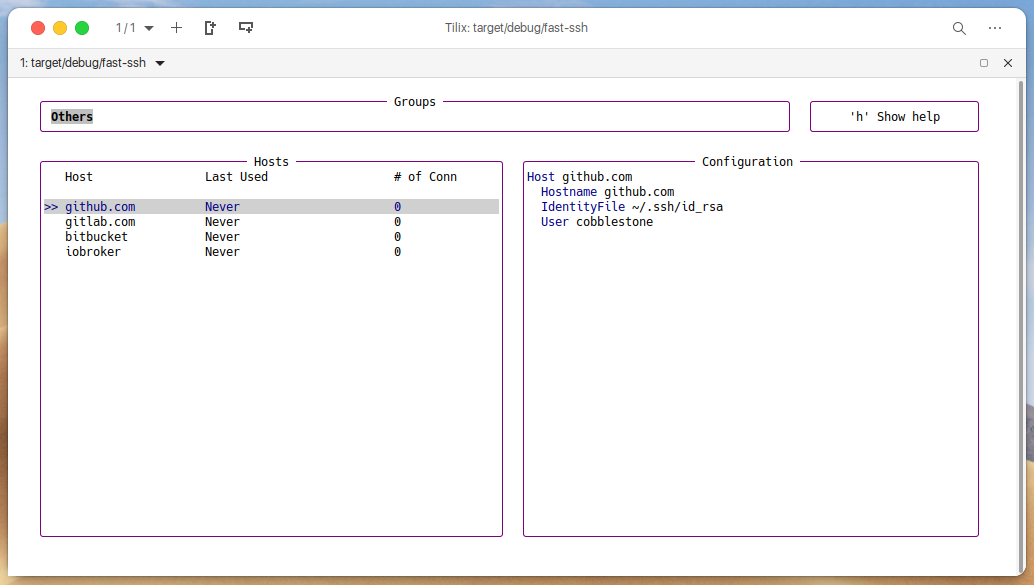
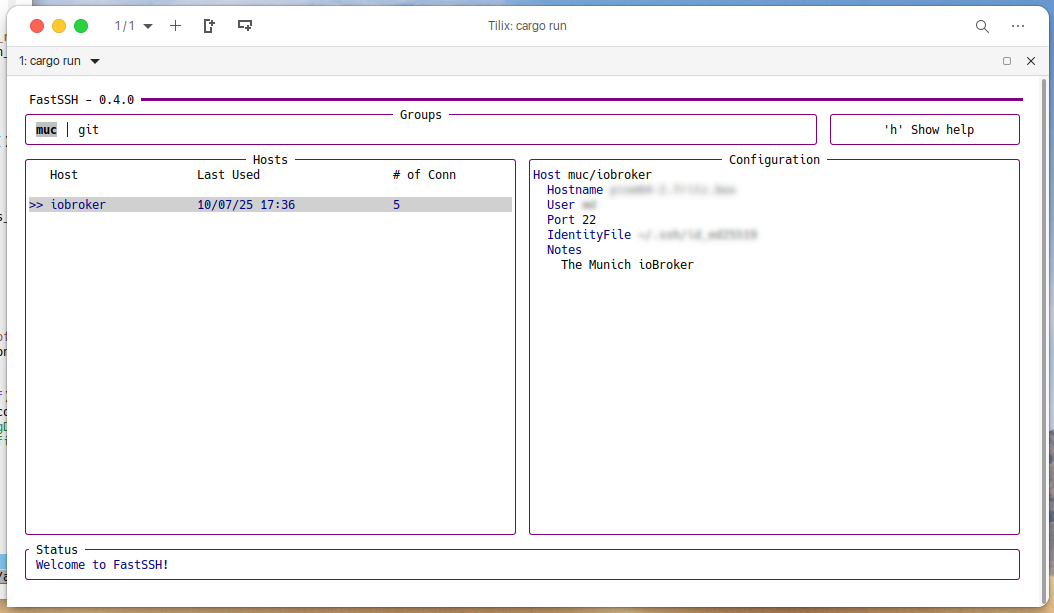
Introduce Status Widget

Changed region(s): [[0.0, 0.0, 1.0, 1.0]]

diff --git a/src/main.rs b/src/main.rs
@@ -20,7 +20,8 @@ use term::*;
 use theme::*;
 use widgets::{
     config_widget::ConfigWidget, groups_widget::GroupsWidget, help_widget::HelpWidget,
-    hosts_widget::HostsWidget, shortcuts_widget::ShortcutsWidget, title_widget::TitleWidget,
+    hosts_widget::HostsWidget, shortcuts_widget::ShortcutsWidget, status_widget::StatusWidget,
+    title_widget::TitleWidget,
 };
 
 lazy_static! {
@@ -59,7 +60,7 @@ async fn main() -> Result<(), Box<dyn std::error::Error>> {
 
             // TODO InfoWidget::render(&mut app, layout.chunks_bot[0], frame);
             // Use HelpWidget to demonstrate the layout.
-            HelpWidget::render(&mut app, layout.chunks_bot[0], frame);
+            StatusWidget::render(&mut app, layout.chunks_bot[0], frame);
 
             if app.show_help {
                 ShortcutsWidget::render(&app, layout.chunks_main[4], frame);

diff --git a/src/widgets/status_widget.rs b/src/widgets/status_widget.rs
@@ -1,0 +1,25 @@
+use crate::app::App;
+use crate::THEME;
+use std::io::Stdout;
+use tui::{
+    backend::CrosstermBackend, layout::Rect, style::Style, text::Spans, widgets::Paragraph, Frame,
+};
+
+use super::block;
+
+pub struct StatusWidget {}
+
+impl StatusWidget {
+    pub fn render(app: &App, area: Rect, frame: &mut Frame<CrosstermBackend<Stdout>>) {
+        let block = block::new(" Status ").title_alignment(tui::layout::Alignment::Left);
+
+        let empty_span = Spans::from(format!(" {}", app.state_info()));
+
+        let paragraph = Paragraph::new(empty_span)
+            .block(block)
+            .style(Style::default().fg(THEME.text_primary()))
+            .alignment(tui::layout::Alignment::Left);
+
+        frame.render_widget(paragraph, area);
+    }
+}

diff --git a/src/app.rs b/src/app.rs
@@ -23,6 +23,7 @@ pub enum AppState {
 
 pub struct App {
     pub state: AppState,
+    state_info: String,
     pub searcher: Searcher,
     pub selected_group: usize,
     pub host_state: TableState,
@@ -44,6 +45,7 @@ impl App {
 
         Ok(App {
             state: AppState::Normal,
+            state_info: String::from("Welcome to FastSSH!"),
             selected_group: 0,
             config_paragraph_offset: 0,
             scs,
@@ -148,6 +150,10 @@ impl App {
             ConfigDisplayMode::Global => ConfigDisplayMode::Selected,
             ConfigDisplayMode::Selected => ConfigDisplayMode::Global,
         };
+    }
+
+    pub fn state_info(&self) -> &str {
+        &self.state_info
     }
 
     pub fn app_name(&self) -> &str {

diff --git a/src/widgets/mod.rs b/src/widgets/mod.rs
@@ -4,4 +4,5 @@ pub mod groups_widget;
 pub mod help_widget;
 pub mod hosts_widget;
 pub mod shortcuts_widget;
+pub mod status_widget;
 pub mod title_widget;
